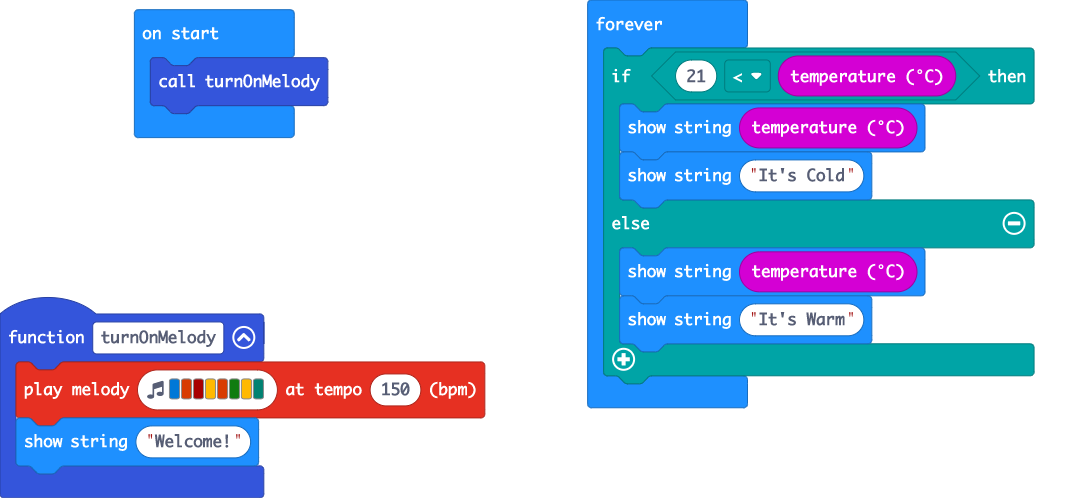
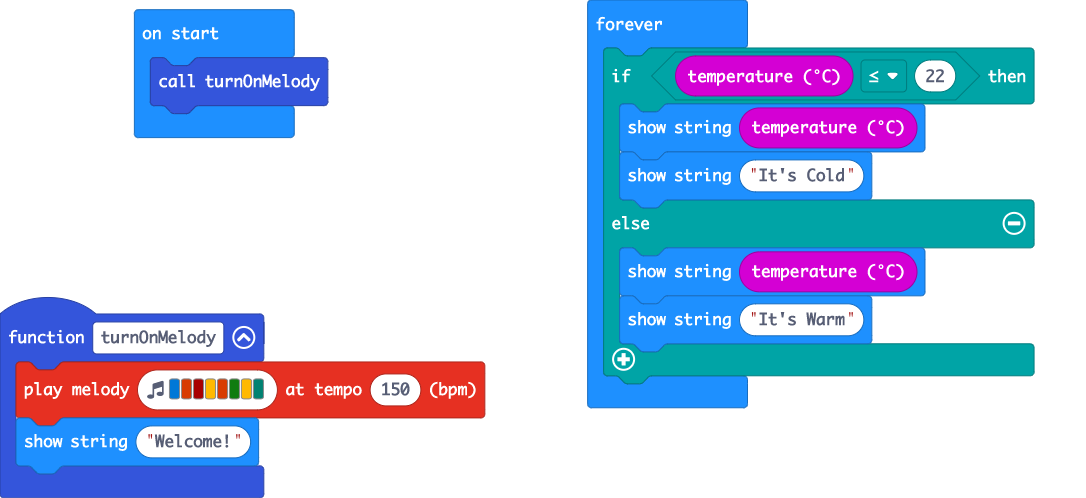
Update main.blocks, main.ts

Changed region(s): [[0.6077, 0.0904, 0.8812, 0.2108]]

diff --git a/main.ts b/main.ts
@@ -4,7 +4,7 @@ function turnOnMelody () {
 }
 turnOnMelody()
 basic.forever(function () {
-    if (21 < input.temperature()) {
+    if (input.temperature() <= 22) {
         basic.showString("" + (input.temperature()))
         basic.showString("It's Cold")
     } else {
